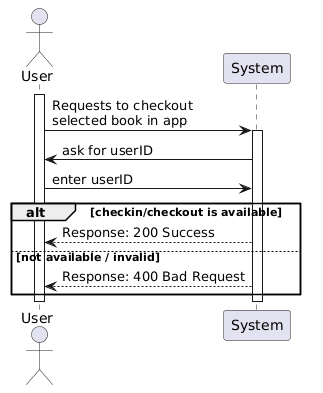
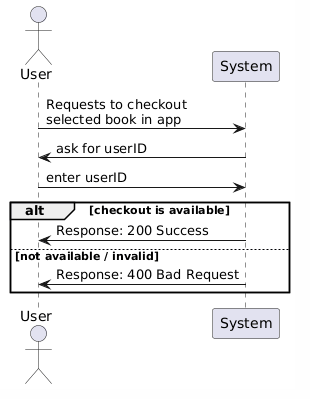
UC8 news SD and SSD done

Changed region(s): [[0.029, 0.0, 0.9581, 0.9771]]

diff --git a/docs/documentation/documentation.md b/docs/documentation/documentation.md
@@ -131,7 +131,6 @@
 
 ### Simple Sequence Diagram (SSD)
 ![SSD8](./SSD/UC8-SSD.png)  
-<span style="color:red">⚠ Note: This SSD is still under development and may not fully represent the latest implementation.</span>
 
 ### Specification Table
 | **Description**       | Check out a book from a selected library to a user |
@@ -143,7 +142,7 @@
 
 ### Sequence Diagram (SD)
 ![SD8](./SD/UC8-SD.png)  
-<span style="color:red">⚠ Note: This SD is still under development and may not fully represent the latest implementation.</span>
+
 
 
 
